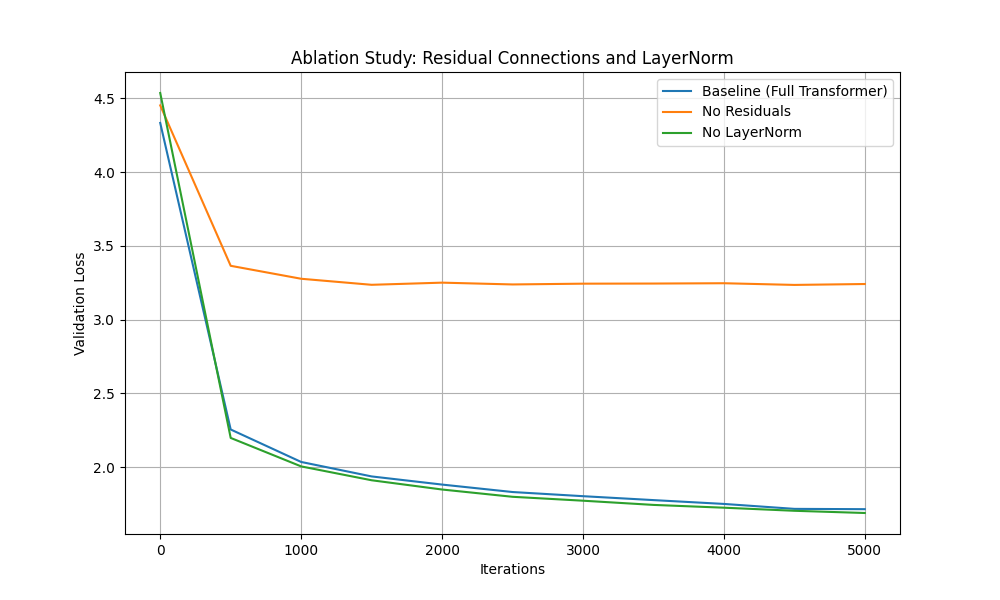
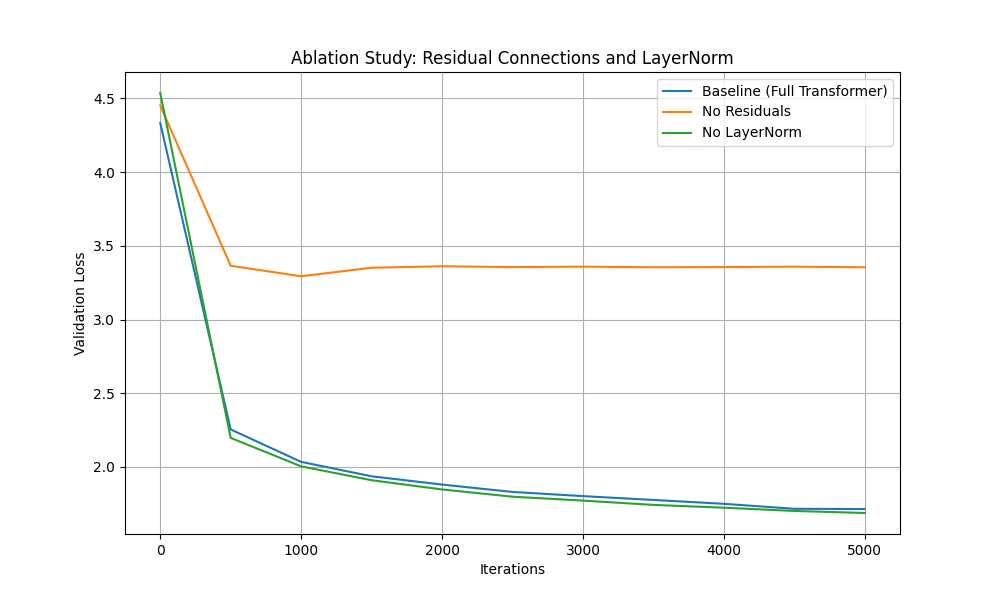
.

Changed region(s): [[0.248, 0.42, 0.868, 0.48], [0.775, 0.84, 0.806, 0.87], [0.651, 0.81, 0.682, 0.84]]

diff --git a/task1/attention.py b/task1/attention.py
@@ -169,7 +169,7 @@ if __name__ == '__main__':
     generated_text = decode(generated_indices)
     
     with open('task1/samples.txt', 'a', encoding='utf-8') as f:
-        f.write("=== SINGLE HEAD ATTENTION MODEL ===\n")
+        f.write("single head attention output:\n")
         f.write(generated_text)
         f.write("\n\n")
     

diff --git a/task2/transformer.py b/task2/transformer.py
@@ -265,7 +265,7 @@ if __name__ == '__main__':
     
     os.makedirs('task2', exist_ok=True)
     with open('task2/samples.txt', 'w', encoding='utf-8') as f:
-        f.write("=== TRANSFORMER MODEL (BASELINE) ===\n")
+        f.write("transformer baseline output:\n")
         f.write(generated_text)
         f.write("\n\n")
     

diff --git a/task1/bigram.py b/task1/bigram.py
@@ -123,7 +123,7 @@ if __name__ == '__main__':
     generated_text = decode(generated_indices)
     
     with open('task1/samples.txt', 'w', encoding='utf-8') as f:
-        f.write("=== BIGRAM MODEL ===\n")
+        f.write("bigram output:\n")
         f.write(generated_text)
         f.write("\n\n")
     

diff --git a/task2/writeup.md b/task2/writeup.md
@@ -18,13 +18,12 @@ The transformer output looks like this:
 ```text
 BOWARWCOMILLO:
 What I have ease not dlam your have a brother
-busin prasurer repurs; sign up thy corturn, our not looks sween,
-We doled 'ISABELO: for liper in the burgt;
-Let his duke I ded and: no wight betake that leave his house
-And I life in Cite,
+busin prasurer the with it musdry our tracerve,
+And looks sween an ag; raif to know friend-make,
+Is of hither friends you, Edie;
+Thrus with in take that leave his house me greaths in Cite,
 What Ranceid it.
-Thousand restrouse abon,
-God it
+Thousand rest out saburn's delay
 ```
 
 This is way better than the bigram model from task1. The bigram output was just random character soup, but here it actually looks like Shakespeare dialogues with character names and proper line breaks. It still doesnt make much sense logically, but it's a huge step up.
